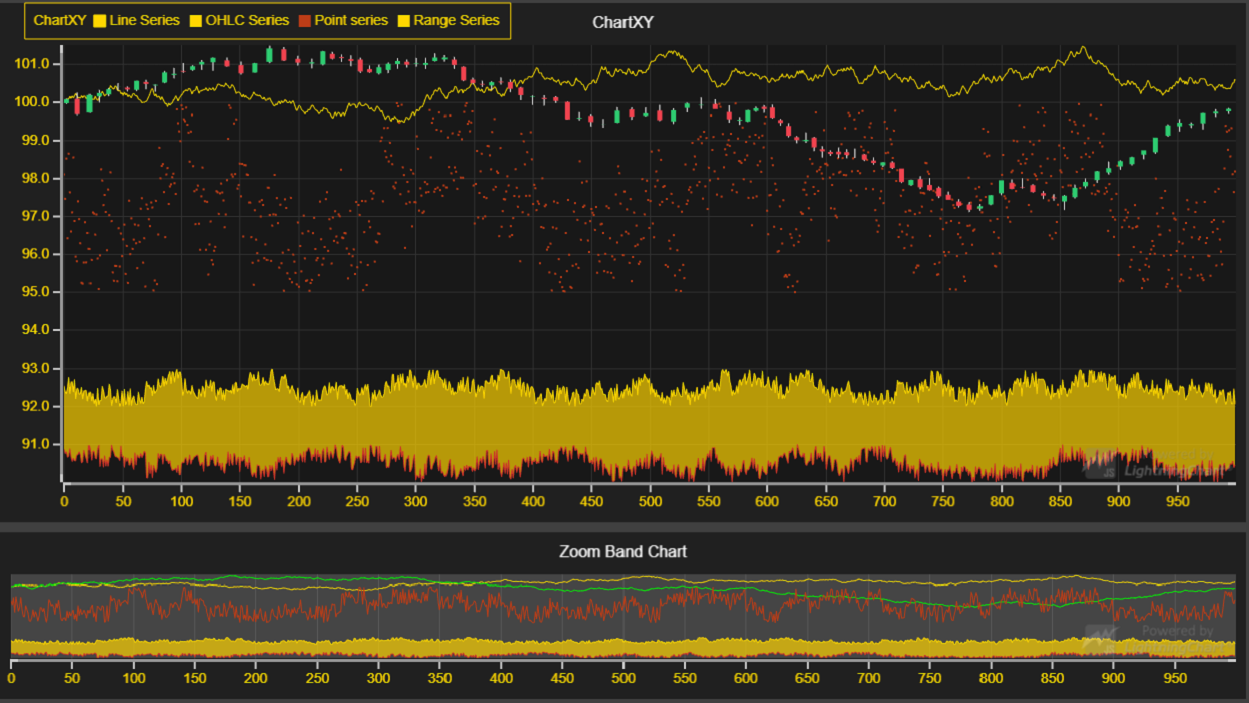
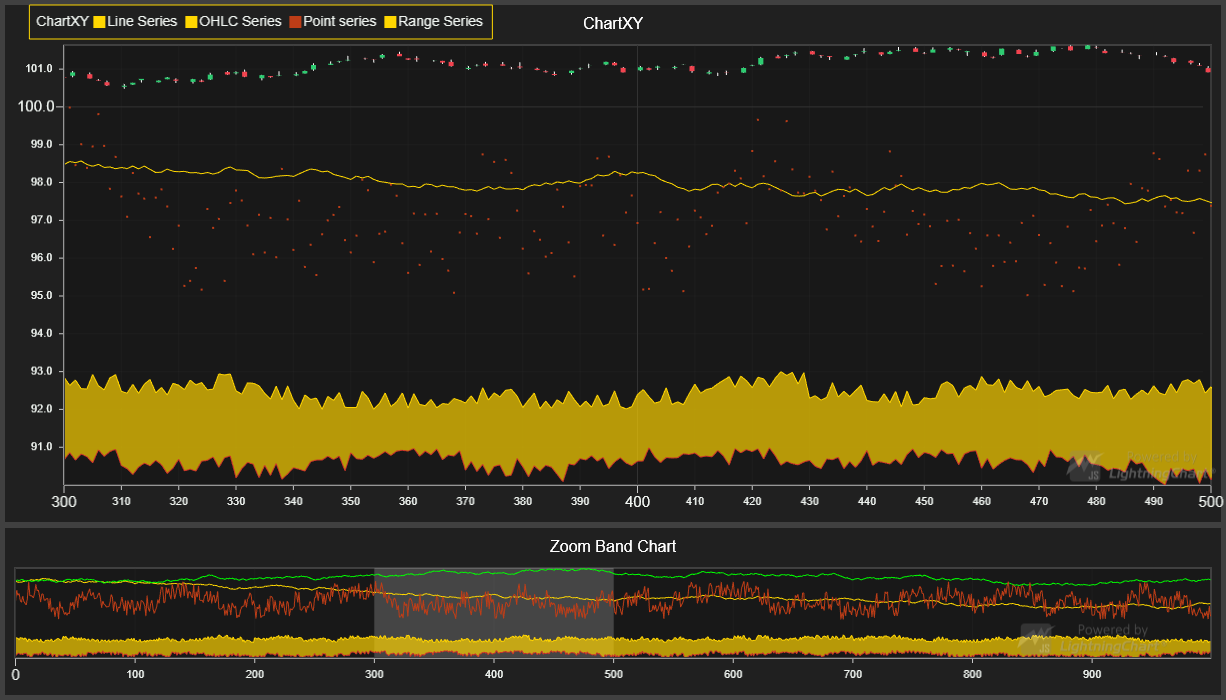
LCJS 2.0.0

diff --git a/src/index.js b/src/index.js
@@ -13,7 +13,8 @@ const {
     PointSeries,
     ColorHEX,
     LegendBoxBuilders,
-    UIOrigins
+    UIOrigins,
+    Themes
 } = lcjs
 
 // Extract required parts from XYData Generator.
@@ -24,25 +25,26 @@ const {
 } = require('@arction/xydata')
 
 // Create a Dashboard, with a single column and two rows.
-const dashboard = lightningChart().Dashboard( {
+const dashboard = lightningChart().Dashboard({
+    // theme: Themes.dark 
     numberOfColumns: 1,
     numberOfRows: 2
-} )
+})
     // Set the row height for the top Cell in Dashboard.
     // As the bottom row is default (1), the top row height will be 3/4 of the
     // available Dashboard height.
     .setRowHeight(0, 3)
 
 // Add XY Chart to top Cell in Dashboard.
-const chart = dashboard.createChartXY( {
+const chart = dashboard.createChartXY({
     columnIndex: 0,
     columnSpan: 1,
     rowIndex: 0,
     rowSpan: 1
-} )
+})
 
 // Add Zoom Band Chart to bottom Cell in Dashboard.
-const zoomBandChart = dashboard.createZoomBandChart( {
+const zoomBandChart = dashboard.createZoomBandChart({
     columnIndex: 0,
     columnSpan: 1,
     rowIndex: 1,
@@ -50,90 +52,92 @@ const zoomBandChart = dashboard.createZoomBandChart( {
     // Specify the Axis for the Zoom Band Chart to follow.
     // The Zoom Band Chart will imitate all Series present in that Axis.
     axis: chart.getDefaultAxisX()
-} )
+})
     // Modify the styling of the Series in Zoom Band Chart.
-    .setSeriesStyle( ( zoomBandSeries, ref ) => {
+    .setSeriesStyle((zoomBandSeries, ref) => {
         // Style the 'OHLC Series' in Zoom Band Chart.
-        if ( ref instanceof OHLCSeries ) {
-            ( zoomBandSeries ).setStrokeStyle( new SolidLine( {
+        if (ref instanceof OHLCSeries) {
+            (zoomBandSeries).setStrokeStyle(new SolidLine({
                 thickness: 1,
-                fillStyle: new SolidFill( { color: ColorHEX( '#0f0' ) } )
-            } ) )
+                fillStyle: new SolidFill({ color: ColorHEX('#0f0') })
+            }))
         }
         // Style the 'Point Series' in Zoom Band Chart.
-        if ( ref instanceof PointSeries ) {
-            ( zoomBandSeries ).setStrokeStyle( new SolidLine( {
+        if (ref instanceof PointSeries) {
+            (zoomBandSeries).setStrokeStyle(new SolidLine({
                 thickness: 1,
-                fillStyle: new SolidFill( { color: ColorHEX( '#bd3d17' ) } )
-            } ) )
+                fillStyle: new SolidFill({ color: ColorHEX('#bd3d17') })
+            }))
         }
-    } )
+    })
 
 // Do not animate Y Axis Scale changes on either Charts.
 chart.getDefaultAxisY()
-    .setAnimationScroll( undefined )
+    .setAnimationScroll(undefined)
 zoomBandChart.getDefaultAxisY()
-    .setAnimationScroll( undefined )
+    .setAnimationScroll(undefined)
+zoomBandChart.band.setValueStart(300)
+zoomBandChart.band.setValueEnd(500)
 
 // Add different Series to the XY Chart.
 const line = chart.addLineSeries()
 const ohlc = chart.addOHLCSeries()
 const points = chart.addPointSeries()
-    .setPointSize( 2 )
-    .setPointFillStyle( new SolidFill( { color: ColorHEX( '#bd3d17' ) } ) )
+    .setPointSize(2)
+    .setPointFillStyle(new SolidFill({ color: ColorHEX('#bd3d17') }))
 const areaRange = chart.addAreaRangeSeries()
 
 // Fill the Line Series with arbitrary data.
 createProgressiveTraceGenerator()
-    .setNumberOfPoints( 1000 )
+    .setNumberOfPoints(1000)
     .generate()
     .toPromise()
-    .then( ( data ) => {
+    .then((data) => {
         // Offset the Y value of each point, then push to the Series.
-        line.add(data.map( ( point ) => ( {x: point.x, y: point.y * .1 + 100 })))
+        line.add(data.map((point) => ({ x: point.x, y: point.y * .1 + 100 })))
     })
 
 // Fill the OHLC Series with arbitrary data.
 createOHLCGenerator()
-    .setNumberOfPoints( 1000 )
+    .setNumberOfPoints(1000)
     .generate()
     .toPromise()
-    .then ( (data) => {
+    .then((data) => {
         ohlc.add(data)
     })
 
 // Fill the Point Series with arbitrary data.
 createProgressiveRandomGenerator()
-    .setNumberOfPoints( 1000 )
+    .setNumberOfPoints(1000)
     .generate()
     .toPromise()
-    .then( (data) => {
+    .then((data) => {
         // Offset the Y value of each point, then push to the Series.
-        points.add( data.map( (point) => ( { x: point.x, y: point.y * 5 + 95 } ) ))
+        points.add(data.map((point) => ({ x: point.x, y: point.y * 5 + 95 })))
     })
 
 // Fill the Area Series with arbitrary data. 
-Promise.all( [
+Promise.all([
     createProgressiveRandomGenerator()
-        .setNumberOfPoints( 1000 )
+        .setNumberOfPoints(1000)
         .generate()
         .toPromise(),
     createProgressiveRandomGenerator()
-        .setNumberOfPoints( 1000 )
+        .setNumberOfPoints(1000)
         .generate()
         .toPromise()
-] ).then( (data) => {
+]).then((data) => {
     // Offset the high and low values for each point, then push to the Series.
-    areaRange.add( data[0].map( ( high, i ) => ( {
+    areaRange.add(data[0].map((high, i) => ({
         position: high.x,
         high: high.y + 92,
         low: data[1][i].y + 90
-    } ) ) )
-} )
+    })))
+})
 
 // Add LegendBox to the XY Chart. Note that hiding a Series in XY Chart will also
 // hide corresponding Series in the Zoom Band Chart.
-chart.addLegendBox( LegendBoxBuilders.VerticalLegendBox )
-    .setPosition( {x: 2, y: 100 } )
-    .setOrigin( UIOrigins.LeftTop )
-    .add( chart )
+chart.addLegendBox(LegendBoxBuilders.VerticalLegendBox)
+    .setPosition({ x: 2, y: 100 })
+    .setOrigin(UIOrigins.LeftTop)
+    .add(chart)

diff --git a/README.md b/README.md
@@ -65,16 +65,16 @@ zoomBandChart.band.setFillStyle( new SolidFill( { color: ColorHEX( '#57a2' ) } )
 
 ## API Links
 
-* Zoom Band Chart: [ZoomBandChart]
-* XY cartesian chart: [ChartXY]
-* Axis: [Axis]
-* Axis tick strategies: [AxisTickStrategies]
-* Horizontal legend box: [HorizontalLegendBox]
-* Vertical legend box: [VerticalLegendBox]
-* UI position origins: [UIOrigins]
-* Solid FillStyle: [SolidFill]
-* RGBA color factory: [ColorRGBA]
-* Solid LineStyle: [SolidLine]
+* [Zoom Band Chart]
+* [XY cartesian chart]
+* [Axis]
+* [Axis tick strategies]
+* [Horizontal legend box]
+* [Vertical legend box]
+* [UI position origins]
+* [Solid FillStyle]
+* [RGBA color factory]
+* [Solid LineStyle]
 
 
 ## Support
@@ -98,14 +98,14 @@ Direct developer email support can be purchased through a [Support Plan][4] or b
 © Arction Ltd 2009-2020. All rights reserved.
 
 
-[ZoomBandChart]: https://www.arction.com/lightningchart-js-api-documentation/v1.3.0/classes/zoombandchart.html
-[ChartXY]: https://www.arction.com/lightningchart-js-api-documentation/v1.3.0/classes/chartxy.html
-[Axis]: https://www.arction.com/lightningchart-js-api-documentation/v1.3.0/classes/axis.html
-[AxisTickStrategies]: https://www.arction.com/lightningchart-js-api-documentation/v1.3.0/globals.html#axistickstrategies
-[HorizontalLegendBox]: https://www.arction.com/lightningchart-js-api-documentation/v1.3.0/globals.html#legendboxbuilders.horizontallegendbox
-[VerticalLegendBox]: https://www.arction.com/lightningchart-js-api-documentation/v1.3.0/globals.html#legendboxbuilders.verticallegendbox
-[UIOrigins]: https://www.arction.com/lightningchart-js-api-documentation/v1.3.0/globals.html#uiorigins
-[SolidFill]: https://www.arction.com/lightningchart-js-api-documentation/v1.3.0/classes/solidfill.html
-[ColorRGBA]: https://www.arction.com/lightningchart-js-api-documentation/v1.3.0/globals.html#colorrgba
-[SolidLine]: https://www.arction.com/lightningchart-js-api-documentation/v1.3.0/classes/solidline.html
+[Zoom Band Chart]: https://www.arction.com/lightningchart-js-api-documentation/v2.0.0/classes/zoombandchart.html
+[XY cartesian chart]: https://www.arction.com/lightningchart-js-api-documentation/v2.0.0/classes/chartxy.html
+[Axis]: https://www.arction.com/lightningchart-js-api-documentation/v2.0.0/classes/axis.html
+[Axis tick strategies]: https://www.arction.com/lightningchart-js-api-documentation/v2.0.0/globals.html#axistickstrategies
+[Horizontal legend box]: https://www.arction.com/lightningchart-js-api-documentation/v2.0.0/globals.html#legendboxbuilders.horizontallegendbox
+[Vertical legend box]: https://www.arction.com/lightningchart-js-api-documentation/v2.0.0/globals.html#legendboxbuilders.verticallegendbox
+[UI position origins]: https://www.arction.com/lightningchart-js-api-documentation/v2.0.0/globals.html#uiorigins
+[Solid FillStyle]: https://www.arction.com/lightningchart-js-api-documentation/v2.0.0/classes/solidfill.html
+[RGBA color factory]: https://www.arction.com/lightningchart-js-api-documentation/v2.0.0/globals.html#colorrgba
+[Solid LineStyle]: https://www.arction.com/lightningchart-js-api-documentation/v2.0.0/classes/solidline.html
 
